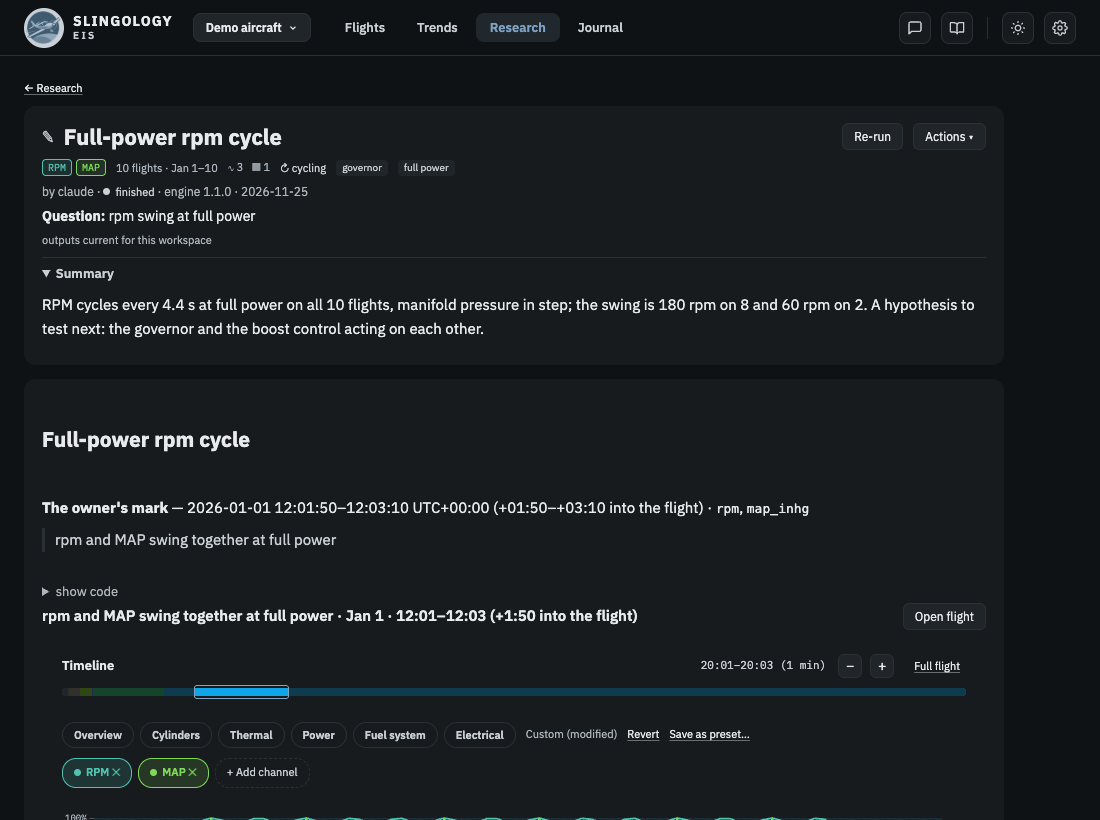
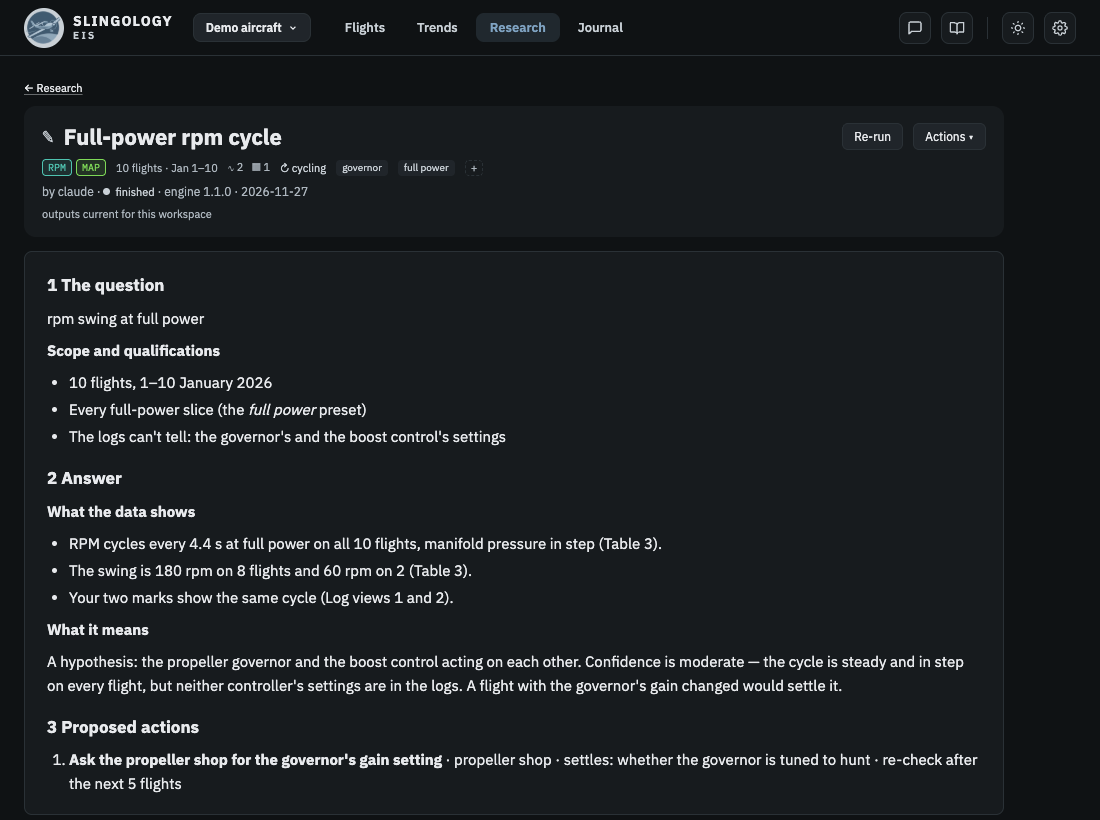
Docs for Spec 16 D19: the notebook's shape, evidence, walkthrough shots
- Notebook format: the seven sections and who writes each, cell roles,
  evidence outputs, the structured Answer's metadata (top, history,
  finding, followup, card.actions), the extended finish rule, older
  notebooks, the shaped rendering.
- The eis library: eis.table, eis.figure, eis.logview(caption=) and how
  evidence is numbered.
- First investigation: the notebook read section by section; its
  screenshots re-shot from the synthetic root, with a new one of the
  Findings. The script's demo notebook is written the way guide v2 asks.

mkdocs build --strict passes.

diff --git a/docs/tools/shoot_investigations.py b/docs/tools/shoot_investigations.py
@@ -109,27 +109,55 @@ class Demo:
         st = self.tool("study_create", {"name": "Full-power rpm cycle", "question_id": qid,
                                         **({"inbox_candidate": cand} if cand else {})})
         sid = st["study_id"]
+        # Written as guide v2 asks (Spec 16 D19): the plan under 5 first, a probe as scratch, each finding a
+        # sentence and one captioned evidence cell, the calculation as support, then the structured Answer.
+        self.tool("cell_append", {"study_id": sid, "kind": "markdown", "section": 5, "source":
+                                  "**Plan.** Start from the two marks, then every full-power slice: is rpm cycling, how "
+                                  "fast and how far, and does manifold pressure move with it?"})
+        self.tool("code_run", {"study_id": sid, "role": "scratch", "source":
+                               "list(eis.slices(\"full_power\", [\"rpm\", \"map_inhg\"]).columns)"})
         self.tool("cell_append", {"study_id": sid, "kind": "markdown", "source":
-                                  "## One flight first\n\nThe minute of full power on 1 January, rpm and manifold pressure together."})
-        self.tool("cell_append", {"study_id": sid, "kind": "logview", "flight": ids[0], "start_s": 110, "end_s": 190,
-                                  "channels": ["rpm", "map_inhg"], "marks": [[120, "full power"]],
-                                  "title": "1 January — full power"})
+                                  "**1.** RPM swings 180 rpm at full power on 8 of the 10 flights and 60 rpm on the other "
+                                  "two, and manifold pressure swings with it (Table 3)."})
+        self.tool("code_run", {"study_id": sid, "role": "evidence", "source":
+                               "s = eis.slices(\"full_power\", [\"rpm\", \"map_inhg\"])\n"
+                               "t = s.groupby(\"flight_id\")[[\"rpm.swing\", \"map_inhg.swing\"]].median().reset_index()\n"
+                               "t = eis.flights()[[\"flight_id\", \"date\"]].merge(t).drop(columns=\"flight_id\")\n"
+                               "eis.table(t, caption=\"Full-power swing per flight, the median of its slices\")"})
         self.tool("cell_append", {"study_id": sid, "kind": "markdown", "source":
-                                  "## Across the flights\n\nEvery full-power slice: is rpm cycling, how fast and how far?"})
-        self.tool("cell_append", {"study_id": sid, "kind": "code", "source":
-                                  "r = eis.cycling(\"full_power\", \"rpm\")\nprint(r.finding)\nr.rows.head(10)"})
-        self.tool("study_finish", {"study_id": sid, "journal": True, "finding": "RPM cycles every 4.4 s at full power on all 10 flights, manifold pressure in step.",
-                                   "summary":
-                                   "RPM cycles every 4.4 s at full power on all 10 flights, manifold pressure in step; the swing is 180 rpm on 8 and 60 rpm on 2. "
-                                   "A hypothesis to test next: the governor and the boost control acting on each other.",
+                                  "**2.** The cycle repeats every 4.4 s on every flight — the cycling test's period, "
+                                  "under *show the calculation*."})
+        self.tool("code_run", {"study_id": sid, "role": "support", "source":
+                               "r = eis.cycling(\"full_power\", \"rpm\")\nprint(r)"})
+        self.tool("cell_append", {"study_id": sid, "kind": "markdown", "source":
+                                  "A period that steady, on every flight, points to a control loop hunting rather than turbulence — a hypothesis."})
+        self.tool("study_finish", {"study_id": sid, "journal": True,
+                                   "question_scope": "- 10 flights, 1–10 January 2026\n- Every full-power slice (the "
+                                                     "*full power* preset)\n- The logs can't tell: the governor's and "
+                                                     "the boost control's settings",
+                                   "shows": ["RPM cycles every 4.4 s at full power on all 10 flights, manifold pressure "
+                                             "in step (Table 3).",
+                                             "The swing is 180 rpm on 8 flights and 60 rpm on 2 (Table 3).",
+                                             "Your two marks show the same cycle (Log views 1 and 2)."],
+                                   "means": "A hypothesis: the propeller governor and the boost control acting on each "
+                                            "other. Confidence is moderate — the cycle is steady and in step on every "
+                                            "flight, but neither controller's settings are in the logs. A flight with "
+                                            "the governor's gain changed would settle it.",
+                                   "actions": [{"what": "Ask the propeller shop for the governor's gain setting",
+                                                "who": "propeller shop", "settles": "whether the governor is tuned to hunt",
+                                                "recheck_after_flights": 5}],
                                    "tags": ["governor", "full power"],
                                    **({"inbox_candidate": cand, "resolution": "investigating"} if cand else {})})
         # Two smaller notebooks, so Research home shows cards of each kind (Spec 03 v0.34 §5.10).
         oil = self.tool("study_create", {"name": "Oil temperature in cruise"})["study_id"]
         self.tool("cell_append", {"study_id": oil, "kind": "logview", "flight": ids[7], "start_s": 200, "end_s": 300,
-                                  "channels": ["oil_temp_f"], "title": "8 January — after the climb"})
+                                  "channels": ["oil_temp_f"], "title": "8 January — after the climb",
+                                  "caption": "8 January: the warm reading is the climb"})
         self.tool("cell_append", {"study_id": oil, "kind": "code", "source":
                                   "r = eis.unusual(\"stable_cruise\", [\"oil_temp_f\"])\nprint(r.finding)"})
+        self.tool("cell_append", {"study_id": oil, "kind": "markdown", "source":
+                                  "No cruise slice stands out on oil temperature (the unusual test, under *show the "
+                                  "calculation*)."})
         self.tool("study_finish", {"study_id": oil, "resolution": "nothing-here", "tags": ["oil", "cruise"], "summary":
                                    "Cruise oil temperature is steady flight to flight; the warm reading on 8 January is the climb, not cruise."})
         new = self.tool("study_create", {"name": "Manifold pressure at takeoff"})["study_id"]
@@ -204,6 +232,11 @@ def shoot(url: str, out: Path, study_id: str, headed: bool, flight: str = "") ->
         page.get_by_test_id("logview-live").first.wait_for(timeout=60000)
         time.sleep(2)
         save("investigations-notebook.png")
+        # D19: the Findings — a sentence, its numbered and captioned evidence, the calculation folded.
+        page.get_by_text("RPM swings 180 rpm").first.evaluate("e => e.scrollIntoView({block: 'start'})")
+        page.evaluate("window.scrollBy(0, -80)")
+        time.sleep(1)
+        save("investigations-notebook-findings.png")
 
         go("/settings?tab=aircraft", "aircraft-settings")
         save("settings-aircraft.png")

diff --git a/docs/reference/notebook-format.md b/docs/reference/notebook-format.md
@@ -22,7 +22,13 @@ An investigation is a standard Jupyter notebook (nbformat 4) — it opens in Jup
 | `kind` | `investigation`, or `question-for-type` (a question for every owner of the engine type) |
 | `author` | `claude` or `user` |
 | `question` | the question as asked |
-| `status`, `summary` | `open` or `finished`; the summary written at the finish |
+| `status`, `summary` | `open` or `finished`; the summary written at the finish (*What it means*, or the older free-text summary) |
+| `shape` | `1` for a notebook laid out in the seven sections ([The shape](#the-shape)); absent on older notebooks |
+| `top` | the structured Answer of the last finish: `question_scope`, `shows` (3–5 sentences), `means`, `actions` (`what`, `who`, `settles`, `recheck_after_flights`) or `actions_none` |
+| `history` | each earlier `top`, with the date it was replaced (`finished`) |
+| `finding` | `shows[0]` — the notebook's line in the Journal |
+| `followup` | the follow-up open now, if any (its heading cell's id) |
+| `card` | the Research home card: origin, channels, flights, dates, evidence counts, tests, outputs, tags, `actions` |
 | `inbox_candidate` | the inbox candidate it investigates, if any |
 | `engine`, `engine_type` | the EIS engine version that wrote it; the engine model |
 | `created`, `updated`, `finished` | times (UTC) |
@@ -30,7 +36,7 @@ An investigation is a standard Jupyter notebook (nbformat 4) — it opens in Jup
 
 ## Cells
 
-Standard markdown and code cells. The first code cell is the **setup cell** (id `setup`), which binds `eis` to the workspace ([the eis library](eis-library.md)). Each code cell carries `metadata.slingology.ran`:
+Standard markdown and code cells. The first code cell is the **setup cell** (id `setup`), which binds `eis` to the workspace ([the eis library](eis-library.md)). Every cell has a `metadata.slingology.role` ([Cell roles](#cell-roles)). Each code cell carries `metadata.slingology.ran`:
 
 | Field | |
 |---|---|
@@ -55,10 +61,47 @@ A **log view** is one output with two representations:
 
 The EIS pages read the reference and show the Flight view's chart for that window, with **Open flight**. If the flight isn't in the workspace they show the picture, marked *Flight not in this workspace*.
 
+An **evidence output** — what `eis.table`, `eis.figure` and `eis.logview(…, caption=)` produce — carries `metadata.slingology.evidence`: `kind` (`table`, `figure`, `logview`), `caption`, and for a table its `units`; a table also carries `slingology.table` (`n_rows`, `n_cols`, `truncated`). The number (*Table 1*) is the renderer's, counted in order, so moving a cell never leaves a stale number.
+
+## The shape
+
+A notebook is laid out in seven sections, in this order. `study_create` writes their headings — markdown cells with role `section`, ids `s1`–`s7`. Spec 16 §5.6.
+
+| Section | Holds | Written by |
+|---|---|---|
+| **1 The question** | the question; *Scope and qualifications* | the finish (`question_scope`) |
+| **2 Answer** | *What the data shows* (3–5 bullets); *What it means* | the finish (`shows`, `means`) |
+| **3 Proposed actions** | numbered: what · who · what it would settle · re-check after the next N flights — or *None*, and why | the finish (`actions`) |
+| **4 Findings** | each finding: one sentence, then its evidence cell (and the calculation behind it) | Claude |
+| **5 How this was done** | the plan, the data and slice rules in words, the method, alternatives ruled out, outside context labelled as context | Claude |
+| **6 Follow-ups** | dated subsections (`### Follow-up — 2026-11-27: title`), each ending with what changed above | Claude, after `study_followup` |
+| **7 Working** | every scratch cell, in the order written | gathered at the finish |
+
+Sections 1–3 are written from the finish's fields, not from markdown: the `.ipynb` holds them as markdown cells marked `generated: true`, so JupyterLab shows the same text, and a re-finish rewrites them and keeps the earlier Answer in `history`. A follow-up opens when Claude asks for one, or by itself when new analysis lands in a finished notebook.
+
+### Cell roles
+
+| Role | Cell | |
+|---|---|---|
+| `evidence` | code | a table, figure or log view the reader reads without the code — shown open, numbered, with its caption |
+| `support` | code | the computation behind the evidence or sentence after it — folded under *show the calculation*. A code cell without a role is support |
+| `scratch` | code or markdown | exploring — kept, folded, under *Working* |
+| `narrative` | markdown | a finding's sentence, what a result means, the plan. A markdown cell without a role is narrative |
+| `section`, `followup`, `changed`, `setup` | — | written by EIS: the headings, a follow-up's heading and its *What changed above* line, the setup cell |
+
+**Older notebooks** (no `shape`) get roles when first loaded — code cells support, markdown narrative — and nothing moves; they render as before. Moving any cell into a section gives the notebook its seven headings, with its cells under *Findings*.
+
 ## The finish rule
 
-`study_finish` refuses a notebook that has no summary, a figure or log view without a markdown cell right before or after it saying what it shows, or a code cell that ends in an error — and names the cells. A notebook says what each picture means, and a cell that failed is replaced, not left behind a working copy. Each code cell starts afresh, so it loads what it uses itself; when one fails on a name an earlier cell set, its error says which cell that was.
+`study_finish` takes the Answer as fields — `question_scope`, `shows`, `means`, `actions` (or `actions_none`), and `changed` when a follow-up is open; a `summary` alone is still accepted and stands as *What it means*. It refuses, naming the cells, while:
+
+- a figure or log view has nothing saying what it shows — a caption, or a markdown cell right before or after it;
+- a code cell ends in an error;
+- an evidence cell's output is plain printed text;
+- a support cell has nothing after it — no evidence and no sentence that uses it.
+
+A notebook says what each picture means, and a cell that failed is replaced, not left behind a working copy. Each code cell starts afresh, so it loads what it uses itself; when one fails on a name an earlier cell set, its error says which cell that was. At the finish the scratch cells move under *Working*.
 
 ## The two renderings
 
-The Research page and **Export as a page (.html)** use the same renderer — the page on the website and on your computer show the same notebook — and both pass tables through a filter that keeps only plain table markup.
+The Research page and **Export as a page (.html)** use the same renderer — the page on the website and on your computer show the same notebook — and both pass tables through a filter that keeps only plain table markup. A shaped notebook reads as its sections: 1–3 typeset as one block (earlier Answers folded inside it), each finding's evidence open with its number and caption and the calculation folded beside it, then *How this was done*, the dated follow-ups, and *Working (n cells)* folded at the end. The Research home card says *n actions*.

diff --git a/docs/walkthroughs/first-investigation.md b/docs/walkthroughs/first-investigation.md
@@ -38,8 +38,13 @@ Click its card on Research. When Claude finishes, the card carries the channels,
 
 ![A notebook on the Research page](../img/investigations-notebook.png){ .screenshot }
 
-- **The header**: the title, the card's marks and topic words, who wrote it, *finished* or still open, the engine version, the date, the question, and whether its outputs are current for this workspace. Then the **summary**: what was found, what it means, what to do — click *Summary* to fold it away; earlier summaries, if Claude came back to the notebook, are inside it.
-- **The cells**, in order. Markdown says what comes next or what a result means. A **log view** is the Flight view's chart for the window that matters — channels, zoom and read-outs as on the Flight view — with **Open flight** to see it in the whole flight. A **code cell** shows its output; the code is folded under *show code*, for anyone who wants to check it.
+- **The header**: the title, the card's marks and topic words, who wrote it, *finished* or still open, the engine version, the date, and whether its outputs are current for this workspace.
+- **The answer first** — a notebook is laid out in seven sections, and the first three are the part to read when you have five minutes: **1 The question**, as you asked it, with its scope (the flights looked at, the manual pages used, what was taken as given, what the logs can't tell); **2 Answer** — *What the data shows*, three to five sentences with their numbers, and *What it means*, a hypothesis with how sure Claude is and what would change it; **3 Proposed actions** — each with who would do it and what it would settle, or *None* and why. If Claude came back to the notebook, the earlier answers are folded inside.
+
+![A notebook's findings: a sentence, its table, the calculation folded](../img/investigations-notebook-findings.png){ .screenshot }
+
+- **4 Findings** — each one a sentence and the table, figure or log view it rests on, numbered (*Table 3*) with a caption saying what it shows. A **log view** is the Flight view's chart for the window that matters, with **Open flight** to see it in the whole flight. The code is folded under *show code*, and a calculation behind a finding under *show the calculation*, for anyone who wants to check it.
+- **5 How this was done** — the plan, the method, the alternatives Claude ruled out, and anything from outside your logs (a forum, another owner) labelled as context. **6 Follow-ups** — dated, each ending with what changed above. **7 Working** — the exploring Claude did on the way, folded.
 - Every number comes from a tool result, a code cell's output or a cited page; a mechanism is called a hypothesis. If something reads as a verdict without its reference, ask Claude where it came from.
 
 ## 5. Keep it, use it

diff --git a/docs/reference/eis-library.md b/docs/reference/eis-library.md
@@ -69,14 +69,33 @@ print(r)
 r.rows.head()
 ```
 
-## Log views
+## Evidence: tables, figures and log views
+
+A finding in a notebook is one sentence and one **evidence** cell — a table, figure or log view the reader can read without the code ([the notebook format](notebook-format.md#the-shape)). Three calls make one; each takes a **caption**, one line saying what it shows, and EIS numbers them in order on the page (*Table 1*, *Figure 2*, *Log view 3*), so a finding's sentence can point at its evidence by number. Raw `print` output is never evidence.
+
+```python
+eis.table(df, caption="Full-power swing per slice", units={"swing": "rpm"}, digits=None)
+```
+
+A DataFrame (or Series) as a table: column names in words with their units (`fuel_press_psi.mean` → *Fuel pressure mean (psi)*, `duration_s` → *Duration (s)*; a `units` entry wins), numbers rounded (`digits`: one number for every column, a `{column: digits}` dict, or by size — none from 100, one from 10, else two), at most 500 rows (the rest counted below). A caption is required.
+
+```python
+fig, ax = plt.subplots()
+...
+eis.figure(fig, caption="Fuel pressure by phase")
+```
+
+A matplotlib figure (or Axes) as a figure, drawn as SVG with its caption.
 
 ```python
 eis.logview(flight, start_s, end_s, channels=("rpm", "map_inhg"),
-            marks=[(367, "takeoff power")], title=None, rule=None)
+            marks=[(367, "takeoff power")], title=None, rule=None,
+            caption="First takeoff: the swing starts at full power")
 ```
 
-A strip chart of one flight's window. The cell's output carries both a picture (what JupyterLab, the exported page and a PDF show) and a reference to the flight and window, which the EIS pages show as the Flight view's live chart with **Open flight** ([the notebook format](notebook-format.md)). Marks are `(seconds, label)`.
+A strip chart of one flight's window. The cell's output carries both a picture (what JupyterLab, the exported page and a PDF show) and a reference to the flight and window, which the EIS pages show as the Flight view's live chart with **Open flight** ([the notebook format](notebook-format.md)). Marks are `(seconds, label)`. Without a caption, a log view's title stands in for it.
+
+All three render the same in your own Jupyter kernel: the table as HTML, the figure as SVG, each with its caption.
 
 ## Documents
 
